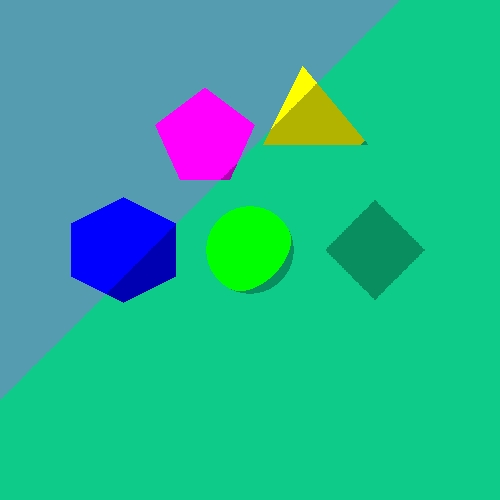
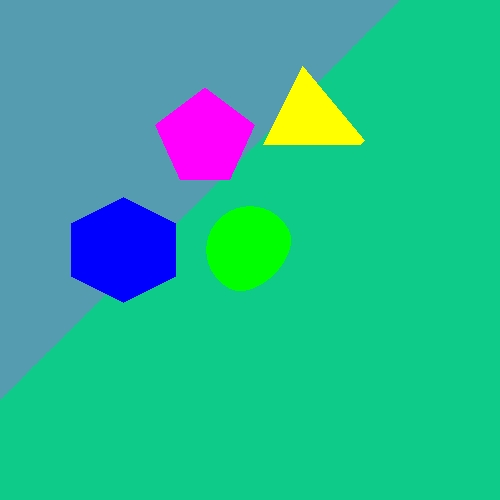
updated naming

diff --git a/src/Renderer/Renderer.java b/src/Renderer/Renderer.java
@@ -2,7 +2,6 @@ package Renderer;
 
 import Geometries.GeoPoint;
 import Geometries.Geometry;
-import Geometries.Plane;
 import Primitives.Point3D;
 import Primitives.Ray;
 import Scene.Scene;
@@ -47,15 +46,15 @@ public class Renderer {
                 }
                 else {
                     GeoPoint closestPoint = getClosestPoint(intersectionPoints);
-                    if (closestPoint.getGeometry() instanceof Plane && intersectionPoints.size() >= 2) {
-
-                        _imageWriter.writePixel(j, i, closestPoint.getGeometry().getEmission().darker());
-
-                    }
-                    else {
+//                    if (closestPoint.getGeometry() instanceof Plane && intersectionPoints.size() >= 2) {
+//
+//                        _imageWriter.writePixel(j, i, closestPoint.getGeometry().getEmission().darker());
+//
+//                    }
+//                    else {
                         _imageWriter.writePixel(j, i, calcColor(closestPoint));
 
-                    }
+                   // }
                 }
             }
         }

diff --git a/src/Unittests/RendererTest.java b/src/Unittests/RendererTest.java
@@ -20,7 +20,7 @@ import java.util.List;
 class RendererTest {
 
     @Test
-    public void SHREK() {
+    public void testShapes() {
 
         Scene scene = new Scene("SHAPES");
         scene.setCamera(new Camera(Point3D.ZERO, new Vector(0, 0, 1), new Vector(0, -1, 0)));
